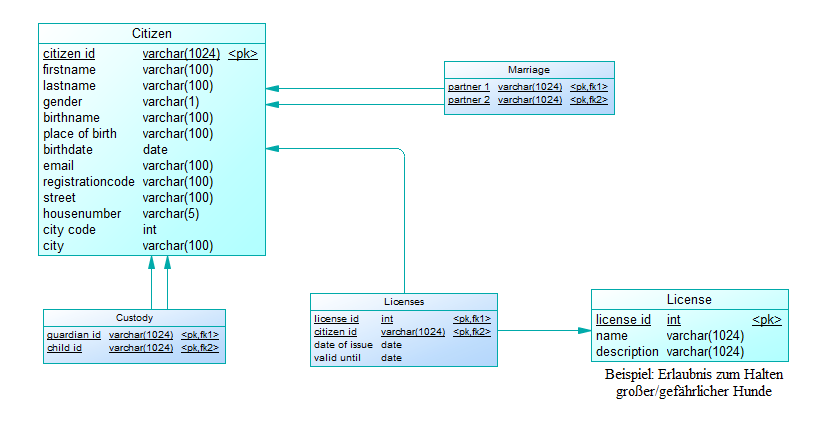
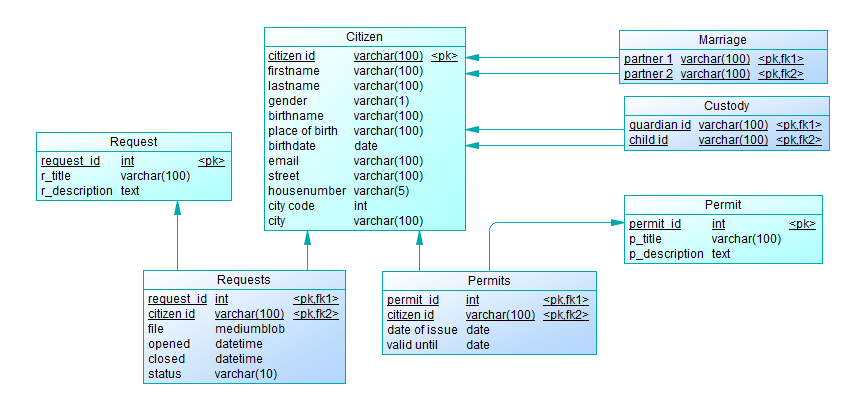
update Datenmodell

diff --git a/buergerbuero/index.md b/buergerbuero/index.md
@@ -143,6 +143,10 @@ Zusätzlich können die Bürger über das Bürgerbüro verschiedene Genehmigunge
 ### Physisches Datenmodell
 ![PDM](media/pdm.png)
 
+#### Begriffserklärung
+**Requests**: Anträge die einmalig bearbeitet werden und dann abgeschlossen sind. Zum Beispiel ein Antrag auf Namensänderung  
+**Permit**: Dauerhafte/Zeitbegrenzte Genehmigung zugeordnet zu einem Bürger. Beipiele: Baugenehmigung, Haltung großer Hunde, ...
+
 ## Abläufe
 <!--
 - Aktivitätsdiagramm für den Ablauf sämtlicher Use Cases
